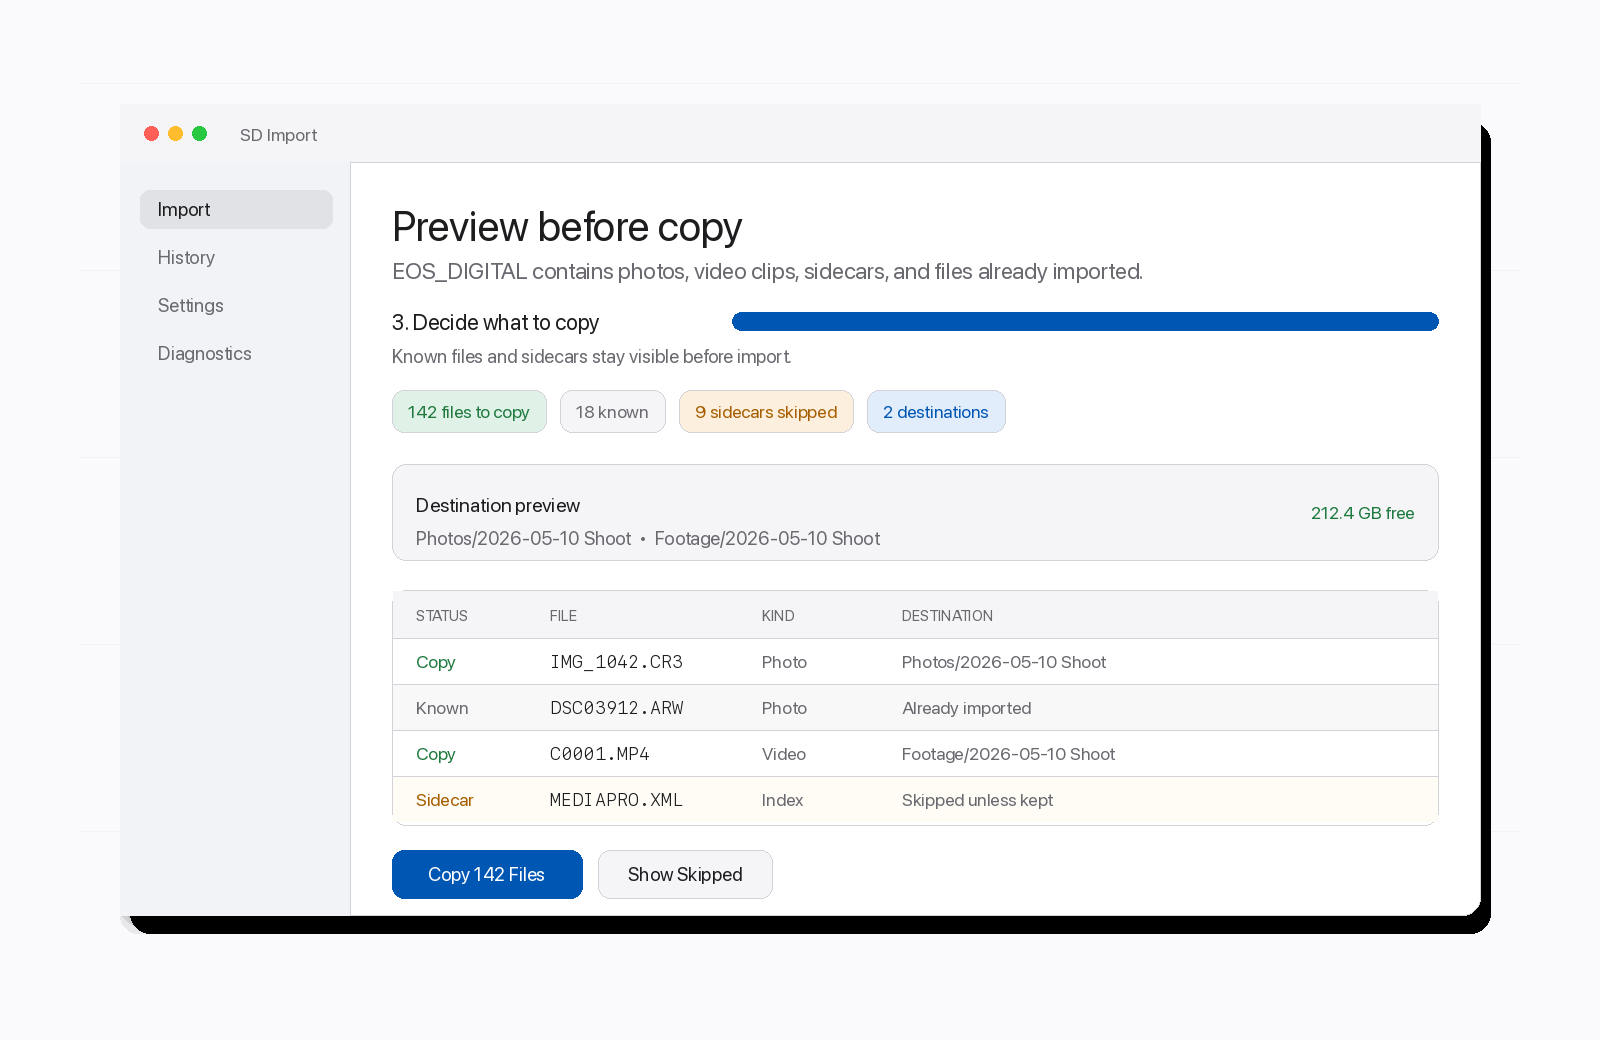
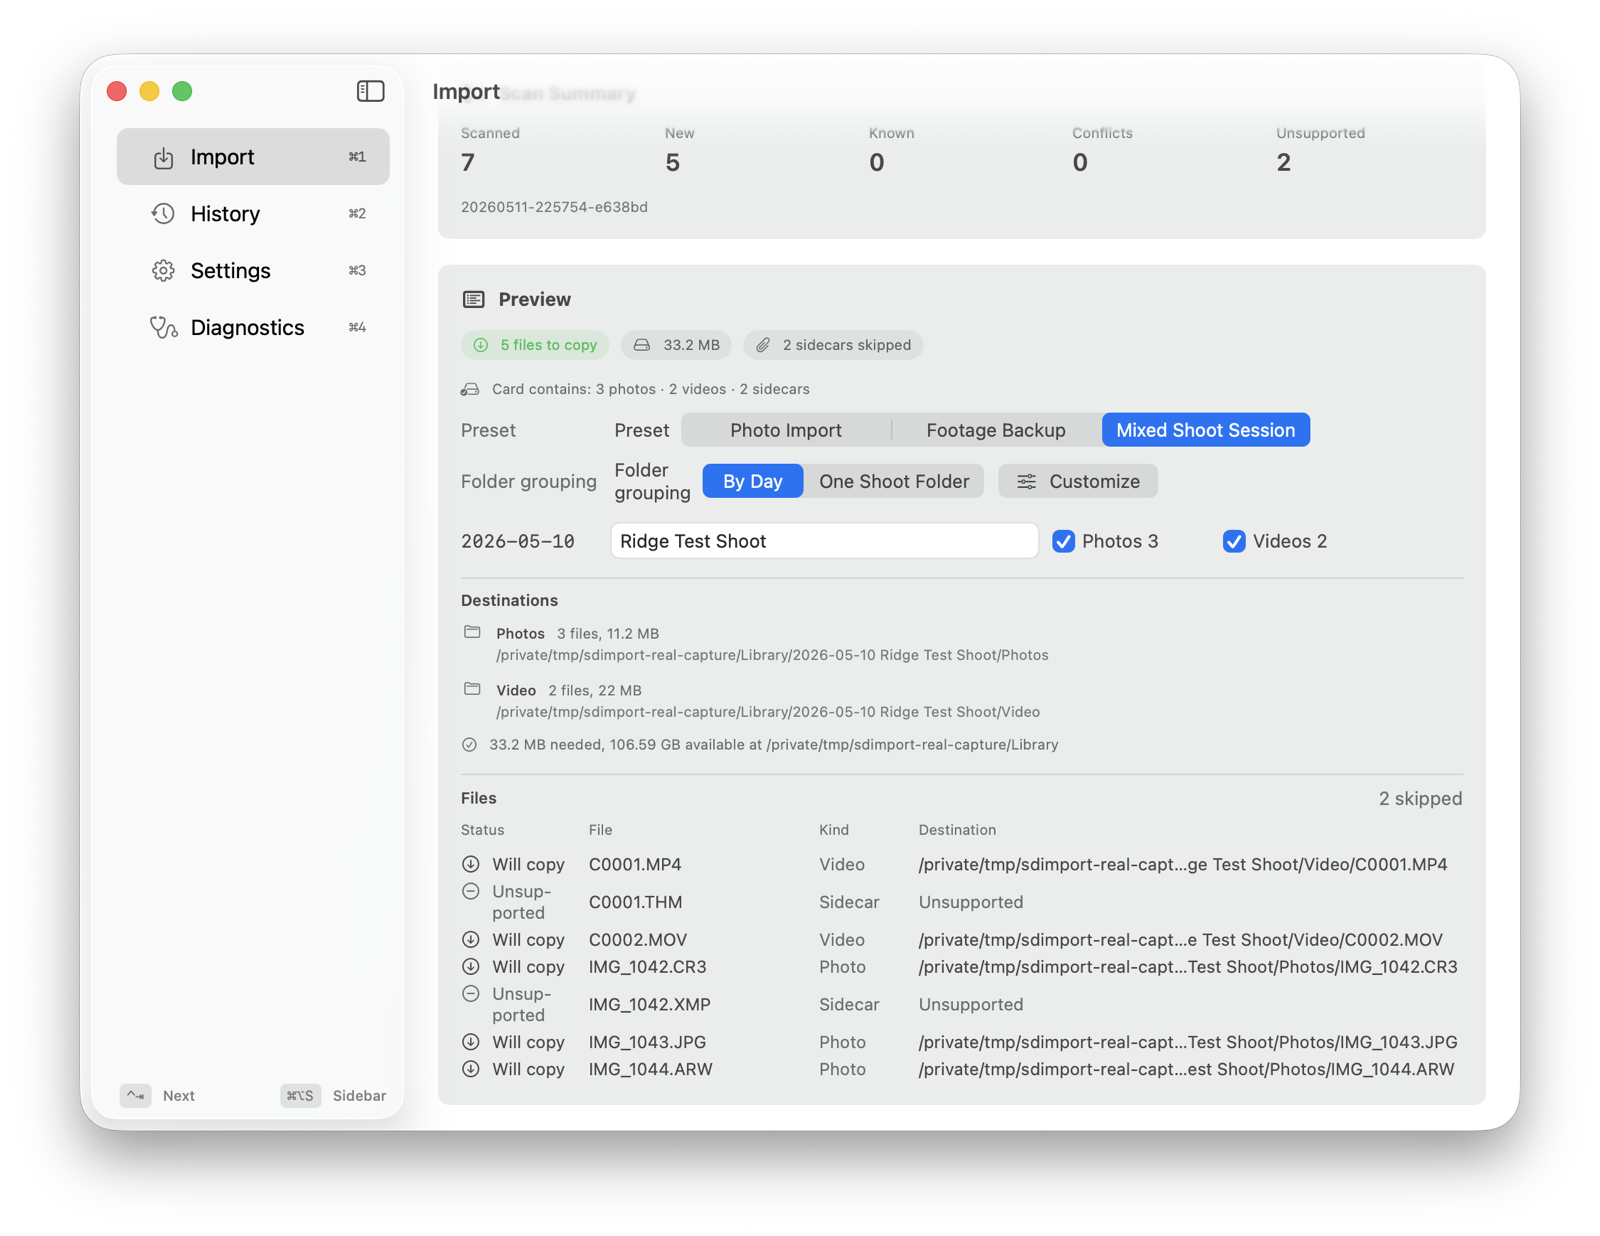
Replace website media with real app captures

diff --git a/docs/index.html b/docs/index.html
@@ -59,50 +59,8 @@
                 <span>Repeat imports without duplicates</span>
             </div>
 
-            <div class="hero-visual" aria-label="SD Import preview illustration">
-                <div class="app-window">
-                    <div class="window-bar">
-                        <span class="traffic-light"></span>
-                        <span class="traffic-light"></span>
-                        <span class="traffic-light"></span>
-                        <span class="window-title">SD Import</span>
-                    </div>
-                    <div class="window-body">
-                        <aside class="mock-sidebar">
-                            <strong>Import</strong>
-                            <span>History</span>
-                            <span>Settings</span>
-                            <span>Diagnostics</span>
-                        </aside>
-                        <div class="mock-main">
-                            <h2>Preview</h2>
-                            <p>Card contains: 128 photos &middot; 14 videos &middot; 9 sidecars</p>
-                            <div class="mock-pills">
-                                <span class="mock-pill good">142 files to copy</span>
-                                <span class="mock-pill">18 known</span>
-                                <span class="mock-pill warn">9 sidecars skipped</span>
-                            </div>
-                            <div class="mock-table">
-                                <div class="mock-row header">
-                                    <span>Status</span><span>File</span><span>Kind</span><span>Destination</span>
-                                </div>
-                                <div class="mock-row">
-                                    <span>Copy</span><span>IMG_1042.CR3</span><span>Photo</span><span>Pictures/Photos/2026-05-10 Shoot</span>
-                                </div>
-                                <div class="mock-row">
-                                    <span>Known</span><span>DSC03912.ARW</span><span>Photo</span><span>Already imported</span>
-                                </div>
-                                <div class="mock-row">
-                                    <span>Copy</span><span>C0001.MP4</span><span>Video</span><span>Footage/2026-05-10 Shoot</span>
-                                </div>
-                            </div>
-                            <div class="mock-actions">
-                                <span class="mock-action">Copy 142 Files</span>
-                                <span class="mock-action secondary">Show Skipped Files</span>
-                            </div>
-                        </div>
-                    </div>
-                </div>
+            <div class="hero-visual" aria-label="SD Import real app screenshot">
+                <img class="hero-screenshot" src="assets/images/sd-import-screenshot.png" alt="Real SD Import app preview showing a scanned sample card, destination folders, skipped sidecars, and files to copy.">
             </div>
         </section>
 
@@ -110,7 +68,7 @@
             <div class="container media-layout">
                 <div class="section-header">
                     <h2>See the decision before files move.</h2>
-                    <p>The screencast shows the core loop: choose a card, confirm photo and footage destinations, review the skipped and known files, then copy with a clear receipt.</p>
+                    <p>The screencast shows the core loop in the real app: scan a source folder, confirm the photo and video destinations, then review skipped sidecars before copying.</p>
                 </div>
                 <div class="media-grid" aria-label="SD Import screenshot and screencast">
                     <figure class="media-frame">
@@ -118,11 +76,11 @@
                             <source src="assets/media/sd-import-screencast.mp4" type="video/mp4">
                             Your browser does not support the SD Import screencast.
                         </video>
-                        <figcaption>Screencast: preview, skipped files, destination check, and copy progress.</figcaption>
+                        <figcaption>Screencast: the real app scans a sample card and builds the preview.</figcaption>
                     </figure>
                     <figure class="media-frame">
-                        <img src="assets/images/sd-import-screenshot.png" alt="SD Import preview showing files to copy, known files, skipped sidecars, and destination folders.">
-                        <figcaption>Screenshot: the preview state before copying a mixed photo and video card.</figcaption>
+                        <img src="assets/images/sd-import-screenshot.png" alt="Real SD Import app preview showing files to copy, skipped sidecars, and destination folders.">
+                        <figcaption>Screenshot: the real preview state before copying a mixed photo and video source.</figcaption>
                     </figure>
                 </div>
             </div>

diff --git a/docs/assets/site.css b/docs/assets/site.css
@@ -323,6 +323,15 @@ pre code {
     max-width: 1060px;
 }
 
+.hero-screenshot {
+    width: 100%;
+    aspect-ratio: 1600 / 1236;
+    object-fit: cover;
+    background: var(--surface);
+    border-radius: 12px;
+    box-shadow: 0 26px 54px var(--shadow);
+}
+
 .app-window {
     width: 100%;
     overflow: hidden;
@@ -529,7 +538,7 @@ pre code {
 .media-frame video,
 .media-frame img {
     width: 100%;
-    aspect-ratio: 20 / 13;
+    aspect-ratio: 1600 / 1236;
     object-fit: cover;
     background: var(--surface);
     border: 1px solid var(--border);